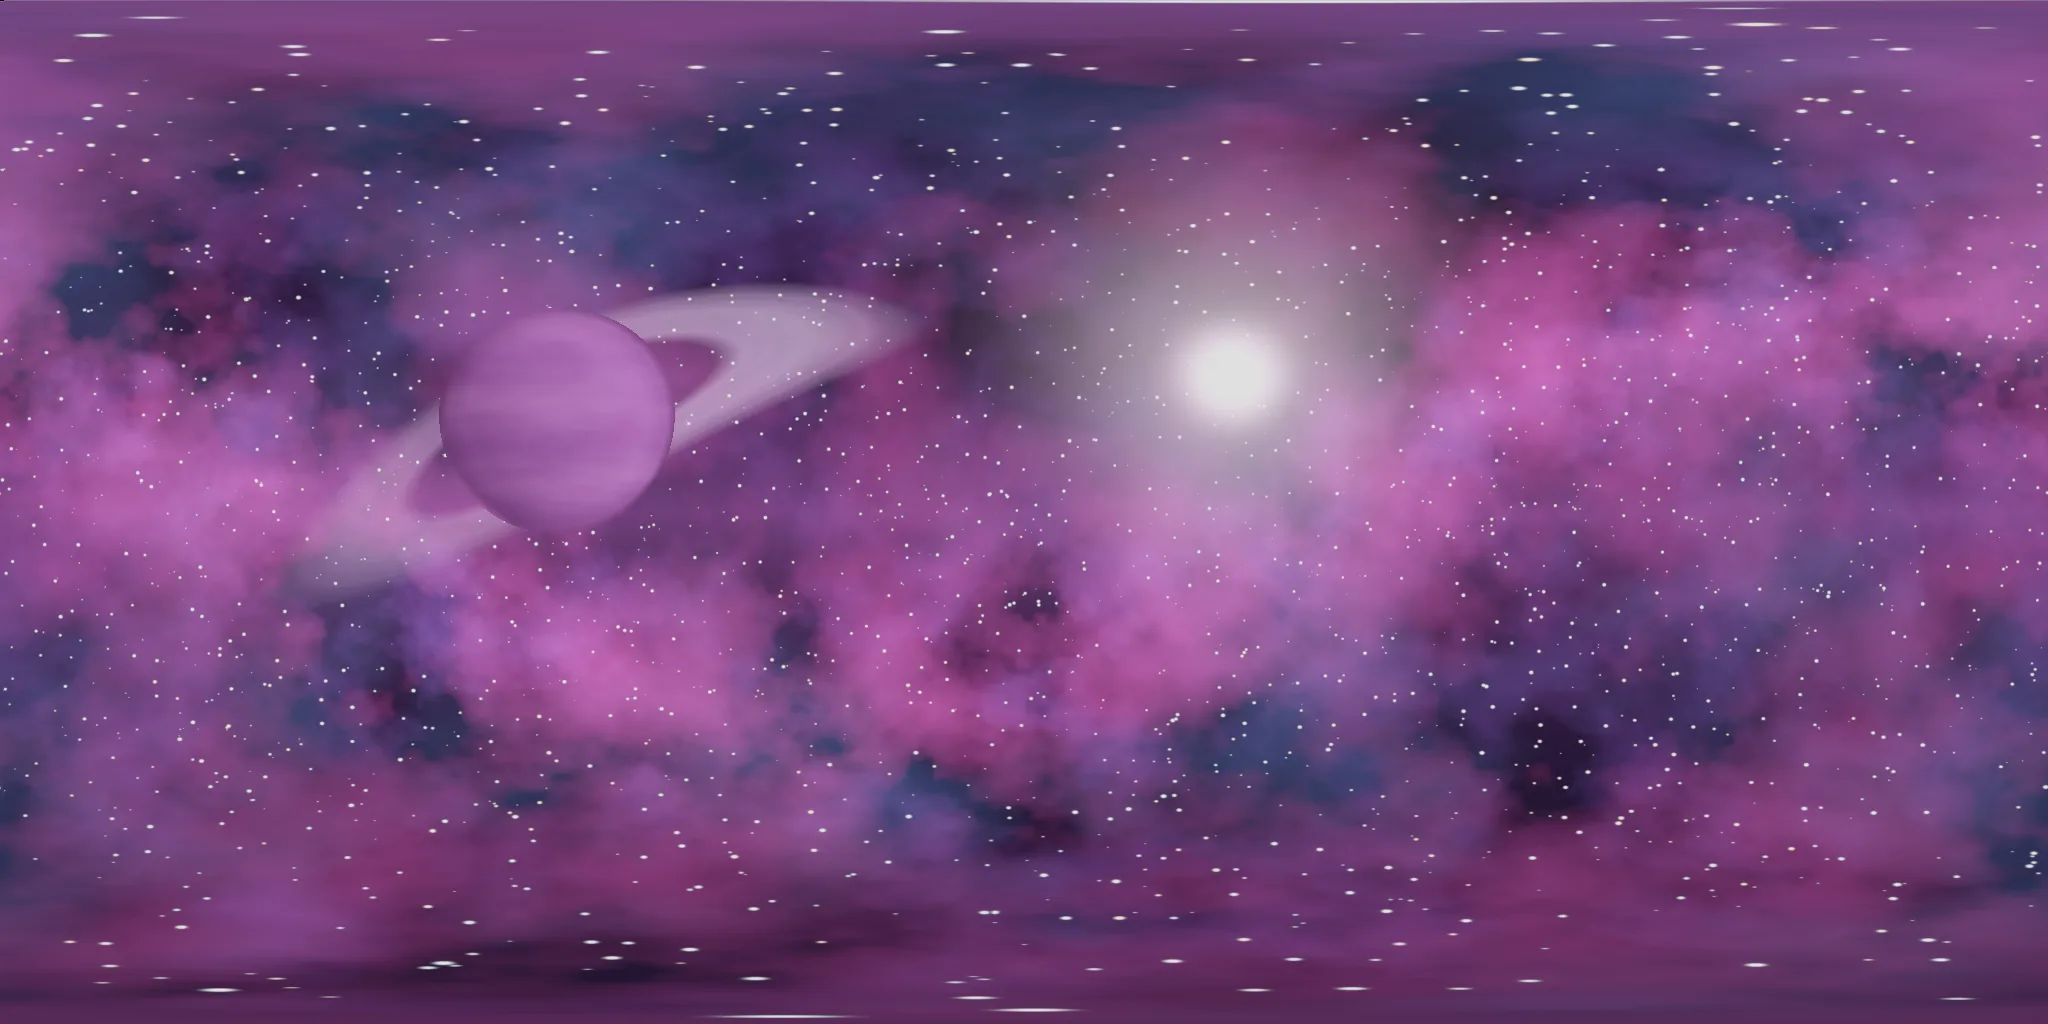
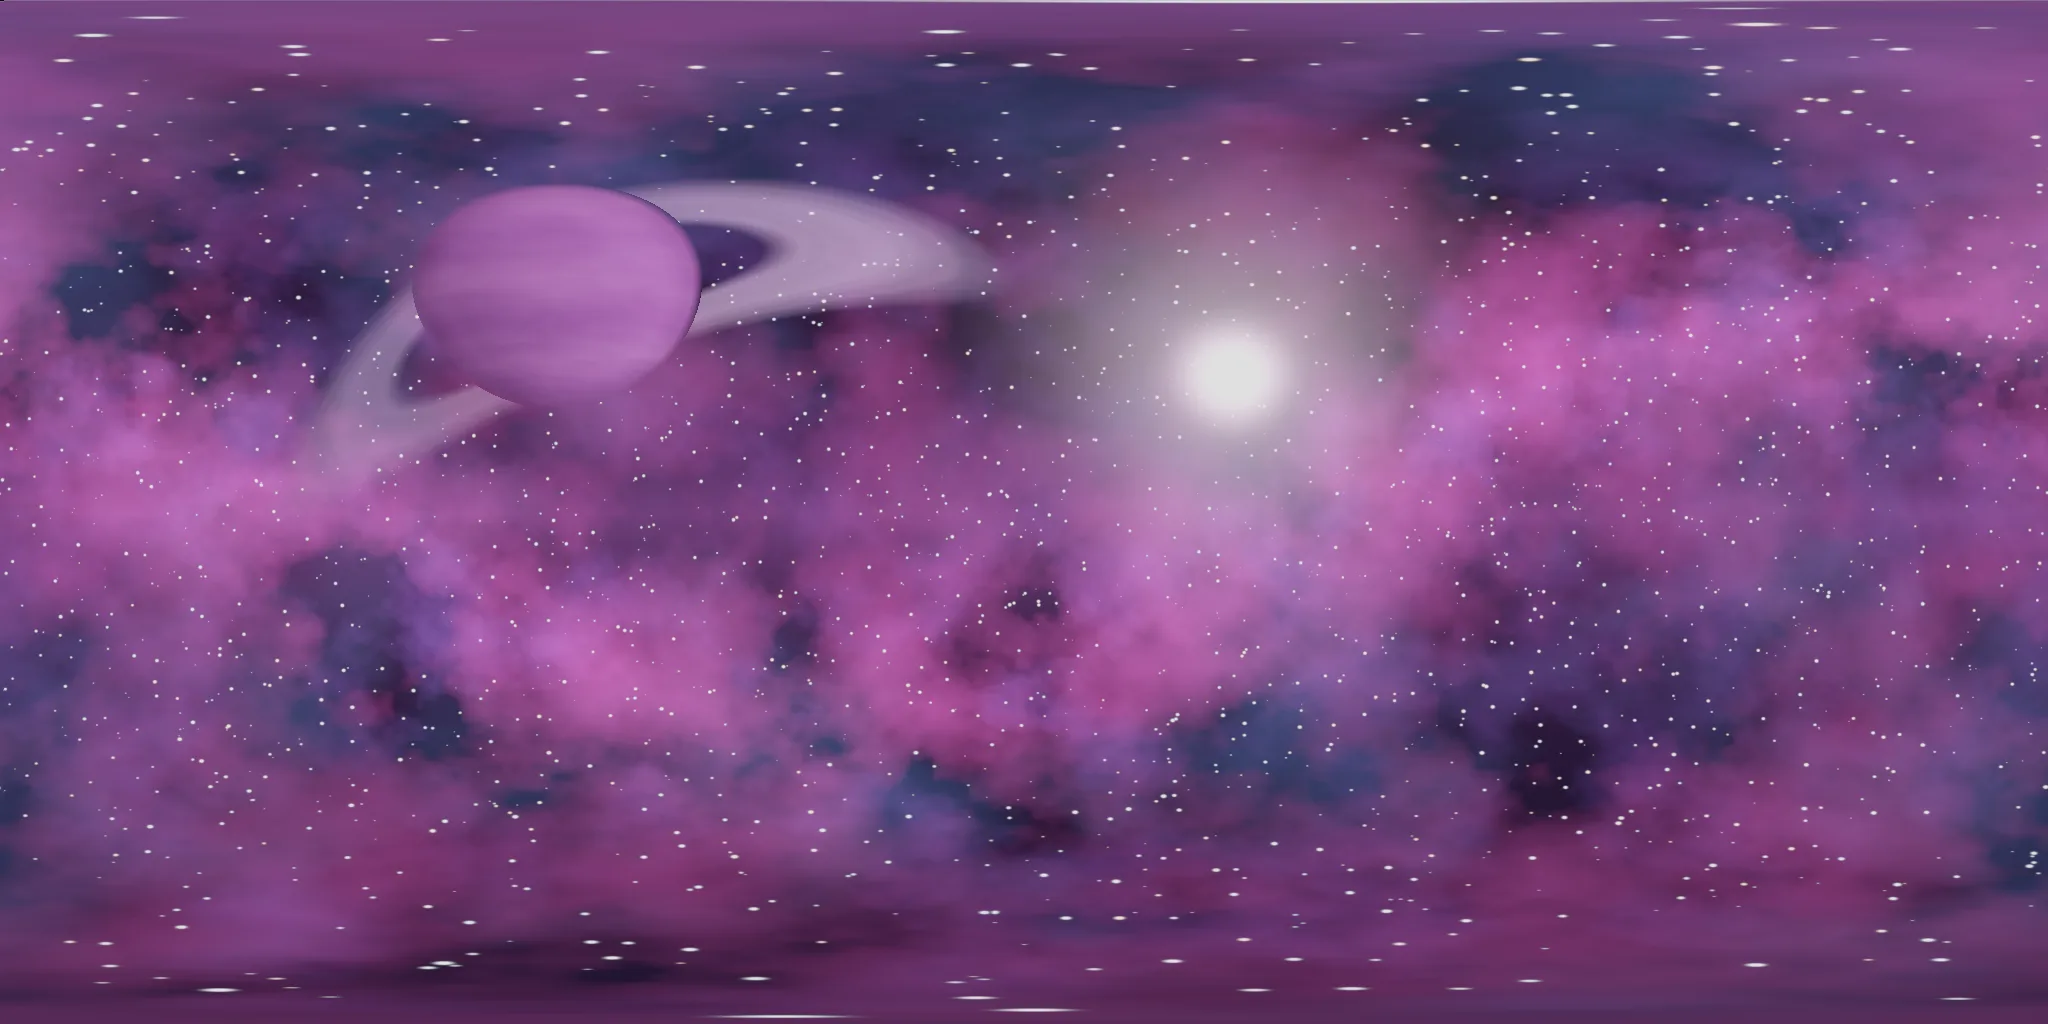
feat(space): round 2 -- violet minimap, Xenon entity names, high planet, arcade sign
- map_terrain.ts: minimap/world map regraded to the violet regolith palette
- entity_space_names.ts + tEntity hook: English-only display overlay
  (Void Stalker, Rust Tusker, Sector Scavver, Eastbrook Colony, colony
  staff titles); ids, logic and other locales untouched
- sky: planet raised to 38 deg elevation so it clears the ridge silhouettes
- props-space.ts: floating BUCKAZOIDS / CLICK TO PLAY neon sign over the
  arcade corner; renderer shows a pointer cursor when hovering a cabinet

Changed region(s): [[0.125, 0.1562, 0.5, 0.5938]]

diff --git a/src/ui/entity_space_names.ts b/src/ui/entity_space_names.ts
@@ -1,0 +1,67 @@
+/**
+ * src/ui/entity_space_names.ts — NodeB59 Space Edition display-name overlay.
+ *
+ * Client-side, English-only rename layer consulted by tEntity() before the
+ * normal i18n lookup. Keys are entityTranslationKey() strings, so the wire
+ * protocol, quest logic, and every non-English locale are untouched: this is
+ * purely what an English-language Xenon client paints on nameplates, banners
+ * and titles. Proper-noun bosses keep their names (they already sound alien);
+ * the everyday medieval fauna/folk get colony-appropriate jobs.
+ */
+
+const SPACE_NAMES: Record<string, string> = {
+  // ── fauna & hostiles ───────────────────────────────────────────────────────
+  'entities.mobs.forest_wolf.name': 'Void Stalker',
+  'entities.mobs.wild_boar.name': 'Rust Tusker',
+  'entities.mobs.old_greyjaw.name': 'Old Greyjaw, Alpha Stalker',
+  'entities.mobs.vale_bandit.name': 'Sector Scavver',
+  'entities.mobs.restless_bones.name': 'Derelict Husk',
+  'entities.mobs.mire_prowler.name': 'Mire Prowler',
+  'entities.mobs.fen_troll.name': 'Mirefen Brute',
+  'entities.mobs.thornpeak_ogre.name': 'Thornpeak Hulk',
+  'entities.mobs.drowned_dead.name': 'Drowned Crew',
+  'entities.mobs.drowned_thrall.name': 'Drowned Crewman',
+  'entities.mobs.crypt_shambler.name': 'Cryo-Vault Shambler',
+  'entities.mobs.tunnel_rat.name': 'Deeprock Burrower',
+
+  // ── zones ─────────────────────────────────────────────────────────────────
+  'entities.zones.eastbrook_vale.name': 'Eastbrook Colony',
+  'entities.zones.eastbrook_vale.welcome':
+    'Find Marshal Redbrook at the colony hub - he has work for you.',
+  'entities.zones.mirefen_marsh.name': 'Mirefen Sump',
+  'entities.zones.thornpeak_heights.name': 'Thornpeak Ridge',
+
+  // ── colony staff titles (names stay; jobs go orbital) ────────────────────
+  'entities.npcs.the_merchant.title': 'Keeper of the Galactic Exchange',
+  'entities.npcs.marshal_redbrook.title': 'Colony Marshal',
+  'entities.npcs.trader_wilkes.title': 'Supply Officer',
+  'entities.npcs.apothecary_lin.title': 'Xenobotanist',
+  'entities.npcs.brother_aldric.title': 'Chaplain of the Colony',
+  'entities.npcs.brother_aldric_fen.title': 'Chaplain of the Colony',
+  'entities.npcs.brother_aldric_highwatch.title': 'Chaplain of the Colony',
+  'entities.npcs.brother_aldric_raid.title': 'Chaplain of the Colony',
+  'entities.npcs.smith_haldren.title': 'Fabricator & Gunsmith',
+  'entities.npcs.fisherman_brandt.title': 'Coolant-Pool Angler',
+  'entities.npcs.foreman_odell.title': 'Extraction Foreman',
+  'entities.npcs.warden_fenwick.title': 'Warden of Fenbridge Outpost',
+  'entities.npcs.provisioner_hale.title': 'Ration Officer',
+  'entities.npcs.herbalist_yara.title': 'Xenobotanist',
+  'entities.npcs.scout_maren.title': "Marshal's Pathfinder",
+  'entities.npcs.scout_maren_highwatch.title': "Marshal's Pathfinder",
+  'entities.npcs.captain_thessaly.title': 'Highwatch Station Captain',
+  'entities.npcs.quartermaster_bree.title': 'Station Quartermaster',
+  'entities.npcs.armorer_hode.title': 'Master Fabricator',
+  'entities.npcs.loremaster_caddis.title': 'Archive Custodian',
+  'entities.npcs.auctioneer_voss.title': 'Keeper of the Galactic Exchange',
+  'entities.npcs.spirit_healer.title': 'Warden of Lost Signals',
+};
+
+/**
+ * The Xenon display name for an entity key, or null to fall through to the
+ * standard i18n chain. Only applies on English locales so real translations
+ * keep working everywhere else.
+ */
+export function spaceEntityOverride(key: string, language: string): string | null {
+  if (!language.startsWith('en')) return null;
+  return SPACE_NAMES[key] ?? null;
+}

diff --git a/src/ui/map_terrain.ts b/src/ui/map_terrain.ts
@@ -47,35 +47,36 @@ export function paintTerrainRows(
       const h = terrainHeight(x, z, seed);
       const wl = waterLevelAt(x, z);
       const biome = zoneBiomeAt(z);
-      let r = 58,
-        g = 105,
-        b = 48;
+      // NodeB59 Space Edition: minimap mirrors the violet regolith grade
+      let r = 74,
+        g = 58,
+        b = 104;
       if (biome === 'marsh') {
-        r = 64;
-        g = 86;
-        b = 48;
+        r = 44;
+        g = 36;
+        b = 68;
       } else if (biome === 'peaks') {
-        r = 92;
-        g = 100;
-        b = 82;
+        r = 94;
+        g = 88;
+        b = 120;
       }
       if (h < waterLevelAt(x, z)) {
-        r = 38;
-        g = 84;
-        b = 138;
+        r = 42;
+        g = 22;
+        b = 96;
       } else if (h > 26) {
-        r = 168;
-        g = 172;
-        b = 178;
-      } // ridge / peak rock+snow
+        r = 172;
+        g = 162;
+        b = 190;
+      } // ridge / peak rock+dust
       else if (h > 11) {
         r = 112;
-        g = 110;
-        b = 102;
+        g = 100;
+        b = 128;
       } else if (h > 6) {
-        r = 88;
-        g = 102;
-        b = 62;
+        r = 90;
+        g = 72;
+        b = 116;
       }
       let nearHub = false;
       for (const zn of ZONES) {
@@ -85,13 +86,13 @@ export function paintTerrainRows(
         }
       }
       if (nearHub) {
-        r = 125;
-        g = 100;
-        b = 66;
+        r = 128;
+        g = 96;
+        b = 118;
       } else if (h >= wl && roadDistance(x, z) < 2.4) {
-        r = 138;
-        g = 111;
-        b = 71;
+        r = 140;
+        g = 108;
+        b = 130;
       }
       // hillshade: relief from the west-to-east slope, reusing the already-computed
       // left-neighbour height so it costs no extra terrainHeight() calls

diff --git a/src/render/props-space.ts b/src/render/props-space.ts
@@ -582,9 +582,38 @@ export function buildSpaceDecor(seed: number): SpaceDecorResult {
     robots.push(robot);
   }
 
-  // 8. Buckazoids arcade corner: three cabinets in an arc by the first well
+  // 8. Buckazoids arcade corner: three cabinets in an arc by the first well,
+  // crowned by a floating neon sign so players know they're playable.
   if (P.wells.length > 0) {
     const w = P.wells[0];
+    {
+      const c = document.createElement('canvas');
+      c.width = 512;
+      c.height = 128;
+      const ctx = c.getContext('2d');
+      if (ctx) {
+        ctx.clearRect(0, 0, 512, 128);
+        ctx.textAlign = 'center';
+        ctx.font = '700 52px monospace';
+        ctx.shadowColor = '#ff3db8';
+        ctx.shadowBlur = 26;
+        ctx.fillStyle = '#ff8ad4';
+        ctx.fillText('BUCKAZOIDS', 256, 58);
+        ctx.shadowBlur = 12;
+        ctx.font = '700 30px monospace';
+        ctx.fillStyle = '#40ff9a';
+        ctx.fillText('- CLICK TO PLAY -', 256, 104);
+      }
+      const tex = new THREE.CanvasTexture(c);
+      tex.colorSpace = THREE.SRGBColorSpace;
+      const sign = new THREE.Sprite(
+        new THREE.SpriteMaterial({ map: tex, transparent: true, depthWrite: false }),
+      );
+      sign.scale.set(4.6, 1.15, 1);
+      const sy = _gnd(w.x, w.z + 5.2, seed);
+      sign.position.set(w.x, sy + 3.3, w.z + 5.2);
+      root.add(sign);
+    }
     for (let i = 0; i < 3; i++) {
       const ang = -0.5 + i * 0.5;
       const cx = w.x + Math.sin(ang) * 5.2;

diff --git a/src/render/renderer.ts b/src/render/renderer.ts
@@ -1279,6 +1279,26 @@ export class Renderer {
       const hits = ray.intersectObjects(decor.arcadeTargets, false);
       if (hits.length > 0 && hits[0].distance < 26) openArcadeMinigame();
     });
+    // pointer cursor when hovering a cabinet (throttled: 8/s)
+    let lastArcadeHover = 0;
+    this.webgl.domElement.addEventListener('pointermove', (ev) => {
+      const decor = this.spaceDecor;
+      if (!decor || decor.arcadeTargets.length === 0) return;
+      const now = performance.now();
+      if (now - lastArcadeHover < 125) return;
+      lastArcadeHover = now;
+      const rect = this.webgl.domElement.getBoundingClientRect();
+      const ndc = new THREE.Vector2(
+        ((ev.clientX - rect.left) / rect.width) * 2 - 1,
+        -((ev.clientY - rect.top) / rect.height) * 2 + 1,
+      );
+      const ray = new THREE.Raycaster();
+      ray.far = 30;
+      ray.setFromCamera(ndc, this.camera);
+      const hits = ray.intersectObjects(decor.arcadeTargets, false);
+      this.webgl.domElement.style.cursor =
+        hits.length > 0 && hits[0].distance < 26 ? 'pointer' : '';
+    });
 
     // Map-editor play-test: freely placed GLB models (cosmetic, render-only). Loads
     // async and pops in; absent for the built-in world. The view supports live

diff --git a/src/ui/entity_i18n.ts b/src/ui/entity_i18n.ts
@@ -1,4 +1,5 @@
 import { type LetterDef, QUEST_LETTERS, WELCOME_LETTER } from '../sim/content/letters';
+import { spaceEntityOverride } from './entity_space_names';
 import {
   ABILITIES,
   CLASSES,
@@ -333,6 +334,10 @@ function recordFallback(request: EntityTranslationRequest, value: string): void 
 
 export function tEntity(request: EntityTranslationRequest): string {
   const key = entityTranslationKey(request);
+  // NodeB59 Space Edition: English display names route through the Xenon
+  // overlay first (client-side paint only; ids/locales/logic untouched).
+  const spaceName = spaceEntityOverride(key, getLanguage());
+  if (spaceName !== null) return interpolateSource(spaceName, request.values);
   const translated = tOptional(key, request.values);
   if (translated !== null) return translated;
   const fallback = interpolateSource(canonicalEntityText(request), request.values);